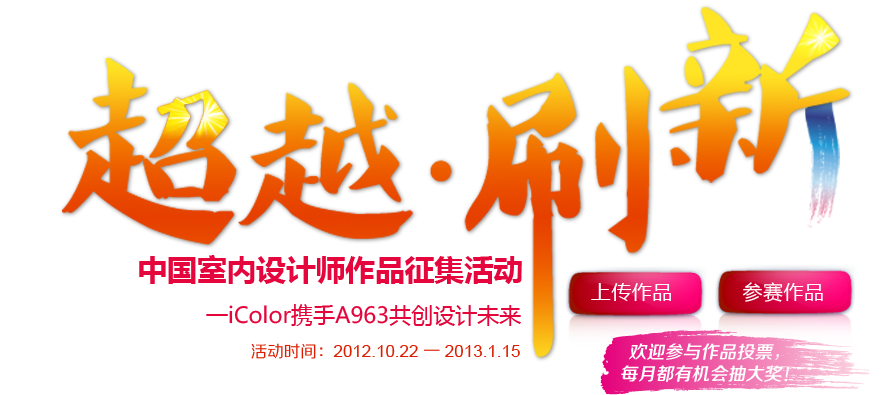
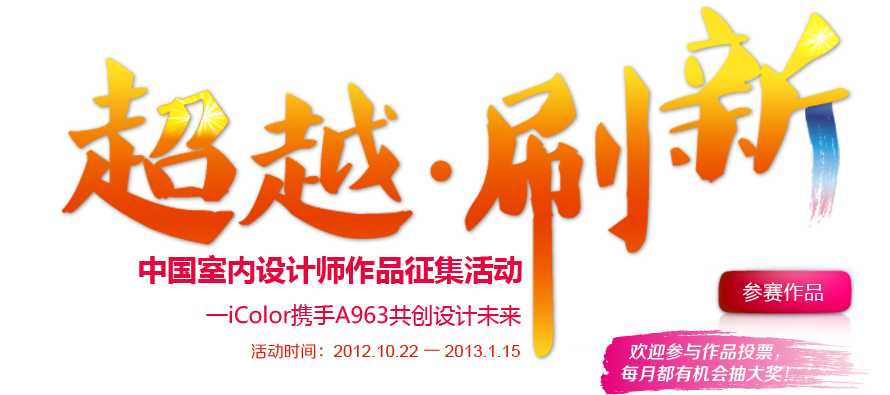
超越刷新和新年活动修改

Changed region(s): [[0.6371, 0.6684, 0.7888, 0.8506]]

diff --git a/app/controllers/special_events_controller.rb b/app/controllers/special_events_controller.rb
@@ -22,7 +22,7 @@ class SpecialEventsController < ApplicationController
       end
       blessing = params[:blessing].scan(/.{20}|.+/).join("\n\n")
 
-      title = "To #{params[:title]}："
+      title = "#{params[:title].gsub(/,/, ' ')}"
 
       image = DesignImage.find(params[:attendee_image_id])
       system("convert #{image.file.path(:spring)} -background blue -rotate 355 public/system/blessing/#{image.id}.png")
@@ -54,7 +54,7 @@ class SpecialEventsController < ApplicationController
 
   def send_greeting_cards
     if current_user
-      line = " #春节传美图，iColor送祝福#{params[:friends]}；这是我在iColor送祝福活动中为你们制作的新春贺卡,亲们~收到祝福好运新年哦~你们也来祝福身边好友吧！活动地址：http://www.icolor.com.cn/special_events/3"
+      line = " #春节传美图，iColor送祝福# #{params[:friends]}；这是我在iColor送祝福活动中为你们制作的新春贺卡,亲们~收到祝福好运新年哦~你们也来祝福身边好友吧！活动地址：http://www.icolor.com.cn/special_events/3"
       ea = EventAttendee.where(special_event_id: params[:id], user_id: current_user.id).order("created_at DESC").first
       ea.sync_to_social("weibo", line, "#{Rails.root}/public/system/blessing/bar_text_#{params[:image_id]}.png")
     end

diff --git a/db/migrate/20130204082500_add_edited_color_to_design_images.rb b/db/migrate/20130204082500_add_edited_color_to_design_images.rb
@@ -1,0 +1,5 @@
+class AddEditedColorToDesignImages < ActiveRecord::Migration
+  def change
+  	add_column :design_images, :edited_color, :boolean, default: false
+  end
+end
